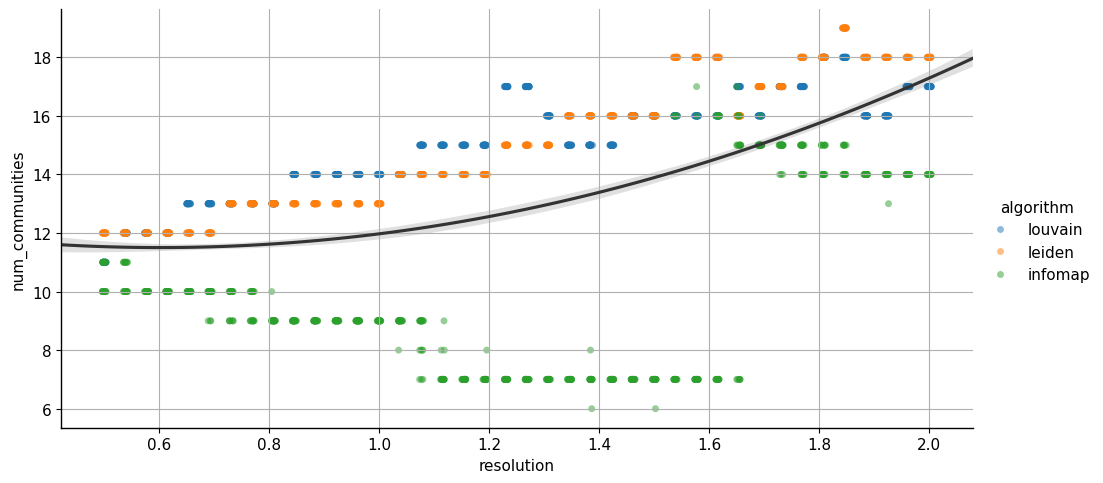
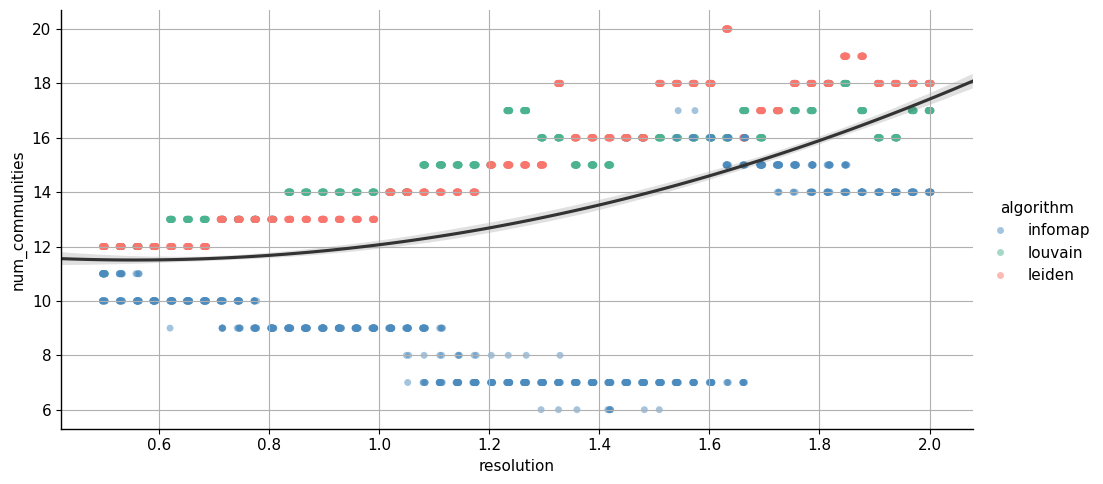
Add resolution sensitivity analysis and update community detection algorithms

diff --git a/scripts/03_resolution_sensitivity.py b/scripts/03_resolution_sensitivity.py
@@ -6,12 +6,14 @@ import pandas as pd
 import numpy as np
 import seaborn as sns
 import random
+from sklearn.metrics.cluster import adjusted_mutual_info_score
+from sklearn.metrics import normalized_mutual_info_score
 
 nx.config.warnings_to_ignore.add("cache")
 
 snakemake: Any
 
-RESOLUTIONS = np.linspace(0.5, 2.0, num=40)
+RESOLUTIONS = np.linspace(0.5, 2.0, num=50)
 TRYS = 20
 
 
@@ -33,11 +35,23 @@ def main() -> None:
 		index=pd.RangeIndex(start=0, stop=0, step=1),
 	)
 
+	df_scores = pd.DataFrame(
+		{
+			"algorithm": pd.Series(dtype="object"),
+			"resolution": pd.Series(dtype="float64"),
+			"score": pd.Series(dtype="float64"),
+			"score_type": pd.Series(dtype="object"),
+		},
+		index=pd.RangeIndex(start=0, stop=0, step=1),
+	)
+
 	# Generate partitions and collect results
 	for algorithm in algorithms:
 		print(f"Running {algorithm}...")
 		for resolution in RESOLUTIONS:
 			print(f"Running {algorithm} with resolution {resolution:.2f}...")
+			nodes_sorted_communities_labels = []
+
 			for seed in seeds:
 				nodes = list(graph.nodes())
 				random.seed(seed)
@@ -56,7 +70,10 @@ def main() -> None:
 					)
 				elif algorithm == "infomap":
 					communities, _ = comm.infomap_partition(
-						G_shuffled, seed=seed, resolution=resolution, markov_time=resolution
+						G_shuffled,
+						seed=seed,
+						resolution=resolution,
+						markov_time=resolution,
 					)
 				else:
 					raise NotImplementedError(
@@ -78,17 +95,61 @@ def main() -> None:
 					],
 					ignore_index=True,
 				)
+				communities = utils.relabel_communities_by_size(
+					communities, order="desc"
+				)
+				nodes_sorted_communities_labels.append(communities.values())
+
+			# Compute pairwise AMI/NMI between all partitions for this algorithm/resolution
+			print(
+				f"Computing pairwise AMI/NMI for {algorithm} at resolution {resolution:.2f}..."
+			)
+			for i in range(len(nodes_sorted_communities_labels)):
+				for j in range(i + 1, len(nodes_sorted_communities_labels)):
+					ami = adjusted_mutual_info_score(
+						list(nodes_sorted_communities_labels[i]),
+						list(nodes_sorted_communities_labels[j]),
+					)
+
+					nmi = normalized_mutual_info_score(
+						list(nodes_sorted_communities_labels[i]),
+						list(nodes_sorted_communities_labels[j]),
+						average_method="geometric",
+					)
+
+					df_scores = pd.concat(
+						[
+							df_scores,
+							pd.DataFrame(
+								{
+									"algorithm": [algorithm, algorithm],
+									"resolution": [resolution, resolution],
+									"score": [ami, nmi],
+									"score_type": ["AMI", "NMI"],
+								}
+							),
+						],
+						ignore_index=True,
+					)
+
+	print("Data collection complete. Sample of results:")
 	print(df.head())
-	print(df.tail())
 	print(df.info())
 
-	# Plotting
+	print("Summary of scores:")
+	print(df_scores)
+	print(df_scores.info())
+
+	# Plotting general trends in number of communities
 	figsize = snakemake.config["figsizes"]["catplot"]
 	sns.catplot(
 		data=df,
 		x="resolution",
 		y="num_communities",
 		hue="algorithm",
+		hue_order=["infomap", "louvain", "leiden"],
+		palette=["#4B8BBE", "#4CB391", "#F8766D"],
+		kind="strip",
 		native_scale=True,
 		zorder=1,
 		alpha=0.5,
@@ -105,8 +166,33 @@ def main() -> None:
 		color=".2",
 		ax=plt.gca(),
 	)
+	# TODO: Add vertical lines for each algorithm's "best" resolution
 	plt.grid()
 	plt.savefig(snakemake.output[0], bbox_inches="tight")
+
+	# Plotting scores — create separate plots for AMI and NMI using jointplot
+	for score_type in ["AMI", "NMI"]:
+		# Filter data for just this score type (keep all algorithms!)
+		data_subset = df_scores[df_scores["score_type"] == score_type]
+
+		# Create the jointplot using hue
+		g = sns.jointplot(
+			data=data_subset,
+			x="resolution",
+			y="score",
+			hue="algorithm",
+			hue_order=["infomap", "louvain", "leiden"],
+			palette=["#4B8BBE", "#4CB391", "#F8766D"],
+			alpha=0.5,  # Make points transparent so overlapping is visible
+		)
+		# TODO: Add vertical lines for each algorithm's "best" resolution
+
+		g.fig.suptitle(f"{score_type} by Resolution", y=1.02)
+		g.set_axis_labels("Resolution", "Score")
+		output_path = str(snakemake.output[0]).replace(".png", f"_{score_type}.png")
+
+		plt.savefig(output_path, bbox_inches="tight")
+		plt.close()
 
 
 if __name__ == "__main__":

diff --git a/scripts/utils/compute_communities.py b/scripts/utils/compute_communities.py
@@ -1,3 +1,4 @@
+import random
 from typing import Any
 from scripts import *
 import matplotlib.pyplot as plt
@@ -14,6 +15,7 @@ def main() -> None:
 	class_ = snakemake.wildcards["class_"]
 	dataset = snakemake.wildcards["dataset"]
 	seed = int(snakemake.config["seed"])
+	resolution = snakemake.config["community"]["resolution"][class_]
 
 	id_col = snakemake.config[class_]["id"]
 	nodelist_df = pd.read_csv(snakemake.input[1], dtype={id_col: int})
@@ -24,13 +26,13 @@ def main() -> None:
 	algorithm = snakemake.wildcards["algorithm"].lower()
 
 	if algorithm == "louvain":
-		algorithm_func = comm.best_louvain_partition_random
+		algorithm_func = comm.louvain_partition
 		param_label = "resolution"
 	elif algorithm == "leiden":
-		algorithm_func = comm.best_leiden_partition_random
+		algorithm_func = comm.leiden_partition
 		param_label = "resolution"
 	elif algorithm == "infomap":
-		algorithm_func = comm.best_infomap_partition_random
+		algorithm_func = comm.infomap_partition
 		param_label = "markov_time"
 	else:
 		raise NotImplementedError(
@@ -38,10 +40,14 @@ def main() -> None:
 		)
 
 	# Sort graph nodes by ID to ensure consistent ordering across runs
-	graph = gc.graph_sort_nodes_by_id(graph)
+	nodes = list(graph.nodes())
+	random.seed(seed)
+	random.shuffle(nodes)
+	mapping = {old: new for old, new in zip(graph.nodes(), nodes)}
+	G_shuffled = nx.relabel_nodes(graph, mapping)
 
 	communities, modularity, best_parameter = algorithm_func(
-		graph, seed=seed, n_samples=50
+		G_shuffled, seed=seed, resolution=resolution, markov_time=resolution
 	)
 
 	communities = utils.relabel_communities_by_size(communities, order="desc")

diff --git a/src/communities.py b/src/communities.py
@@ -16,7 +16,7 @@ from infomap import Infomap
 
 
 def louvain_partition(
-	graph: nx.Graph, resolution: float = 1.0, seed: int = 28
+	graph: nx.Graph, resolution: float = 1.0, seed: int = 28, markov_time=1.0
 ) -> Tuple[Dict[int, int], float]:
 	"""
 	Run Louvain and return the partition map plus modularity.
@@ -171,7 +171,7 @@ def best_louvain_partition_search(
 
 
 def leiden_partition(
-	graph: nx.Graph, resolution: float = 1.0, seed: int = 28
+	graph: nx.Graph, resolution: float = 1.0, seed: int = 28, markov_time=1.0
 ) -> Tuple[Dict[int, int], float]:
 	"""
 	Run Leiden and return the partition map plus modularity.
